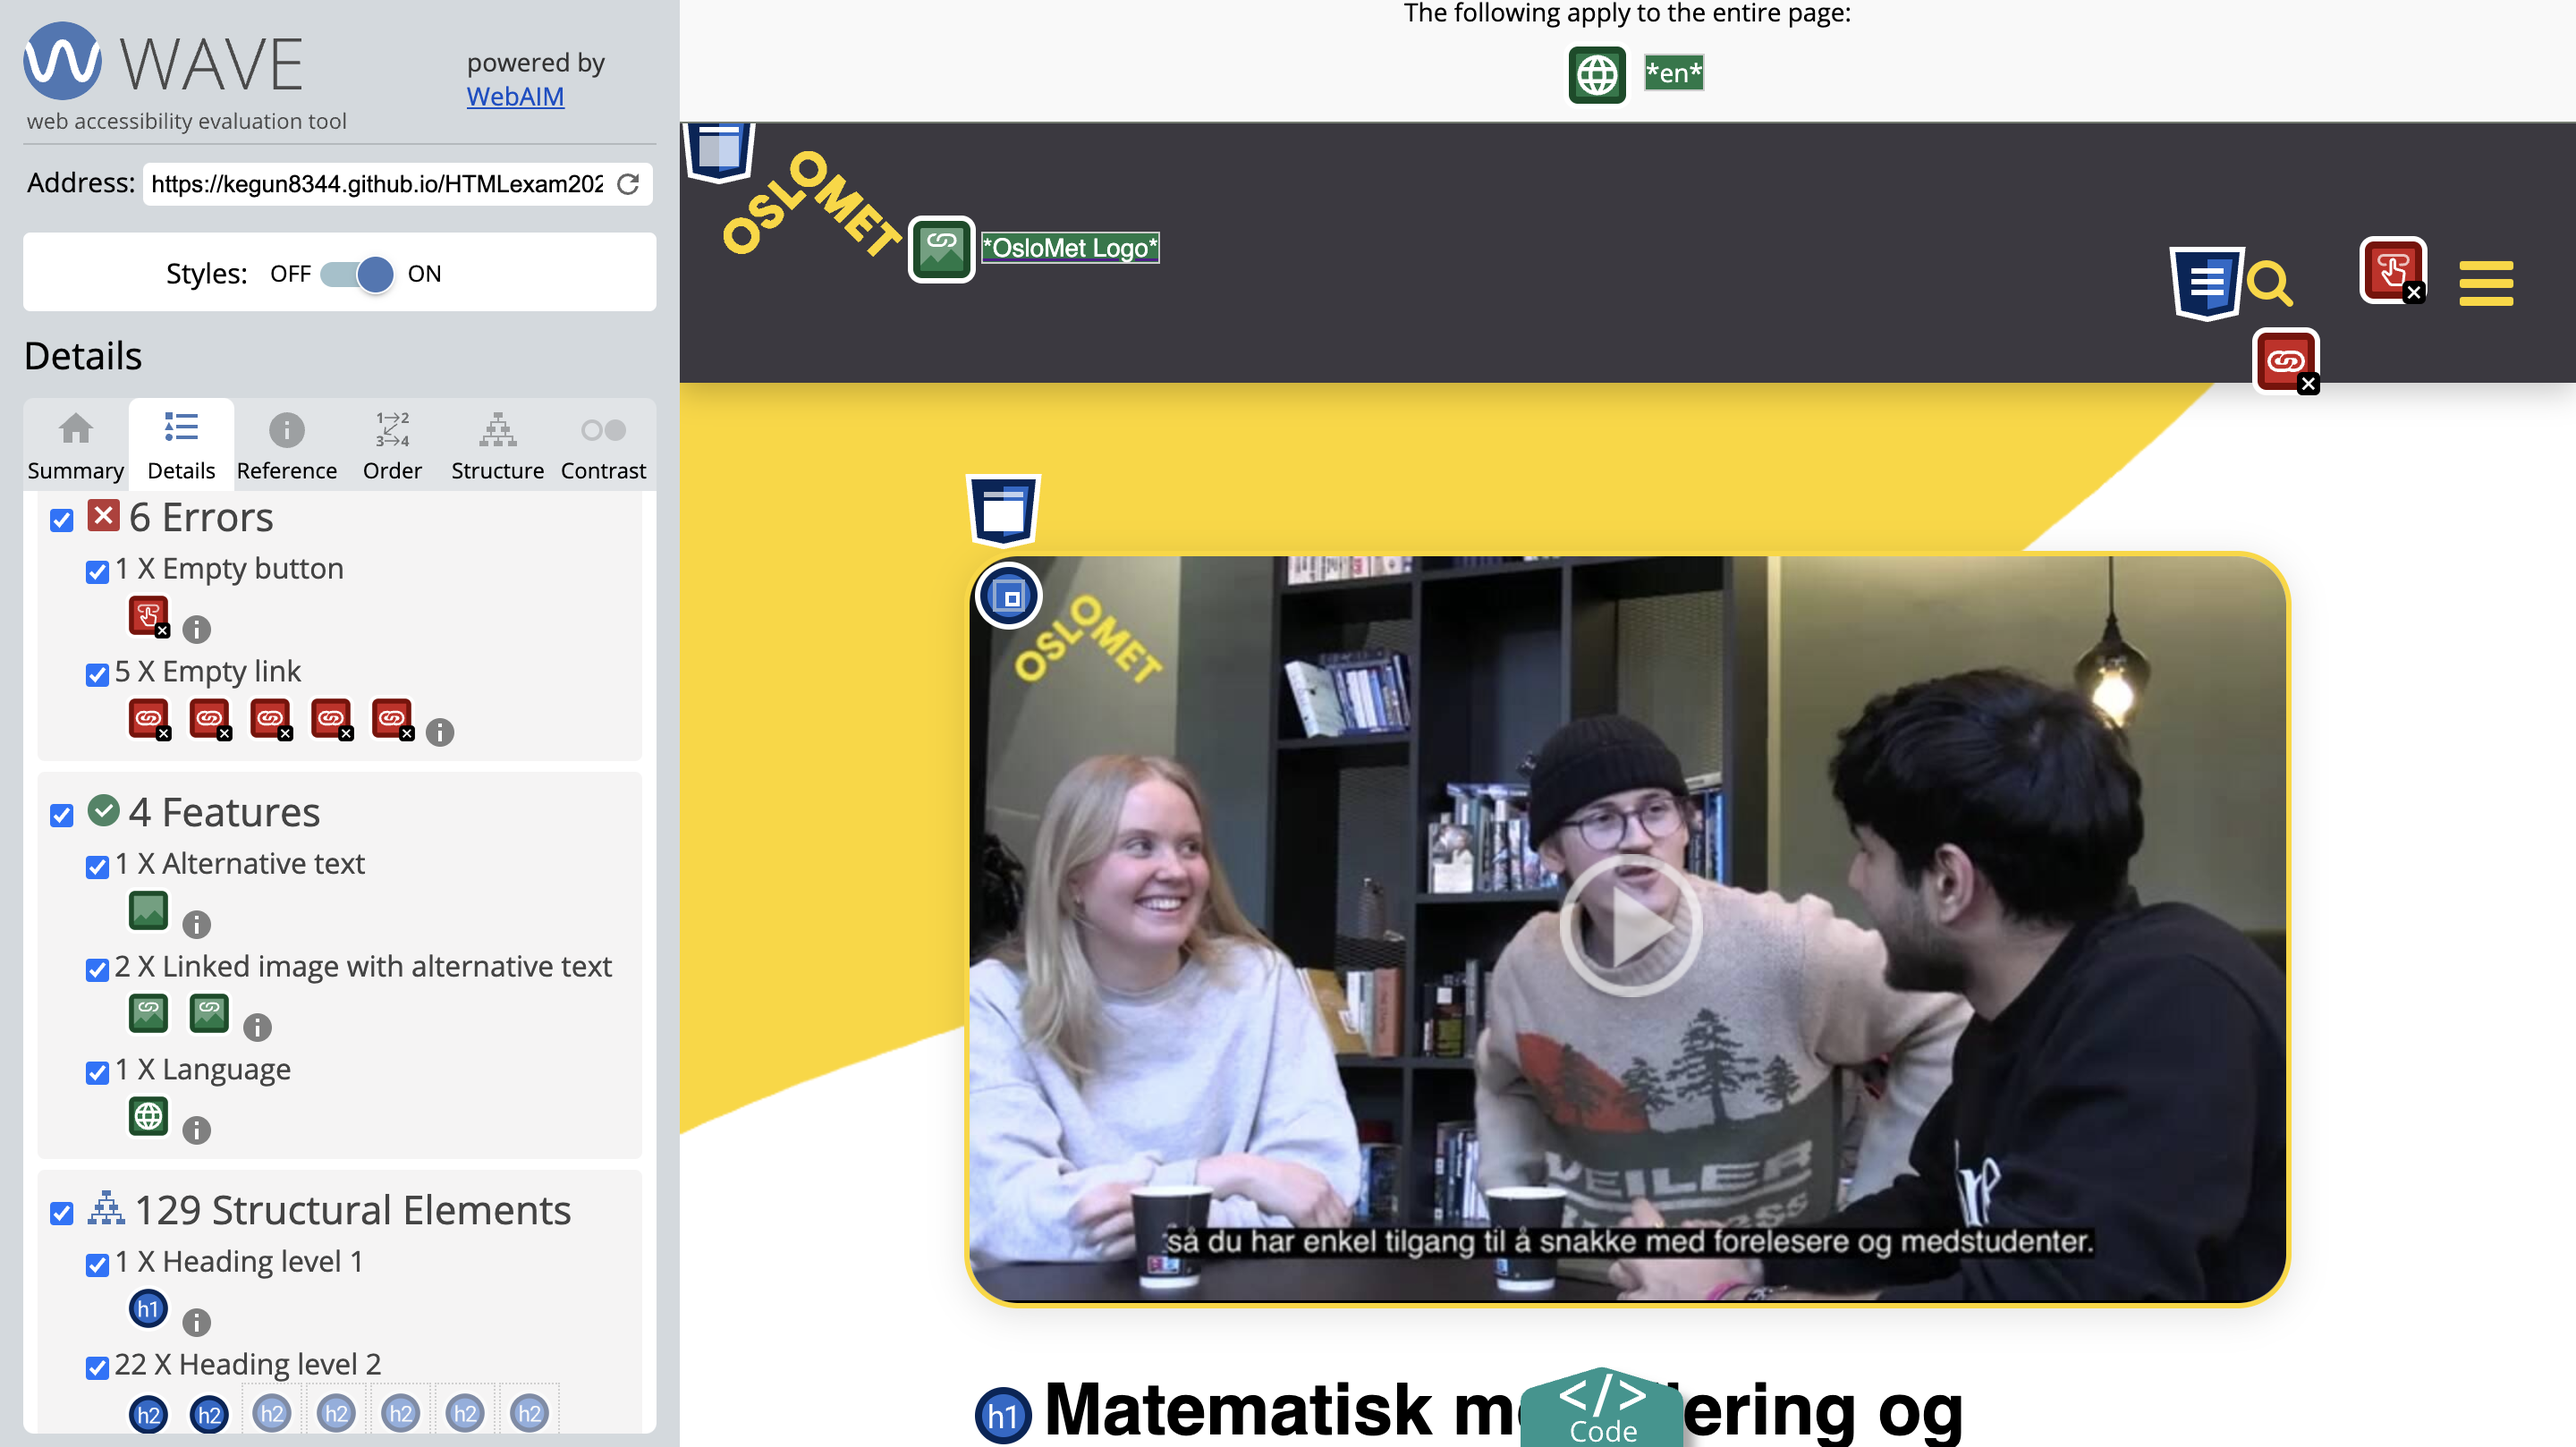
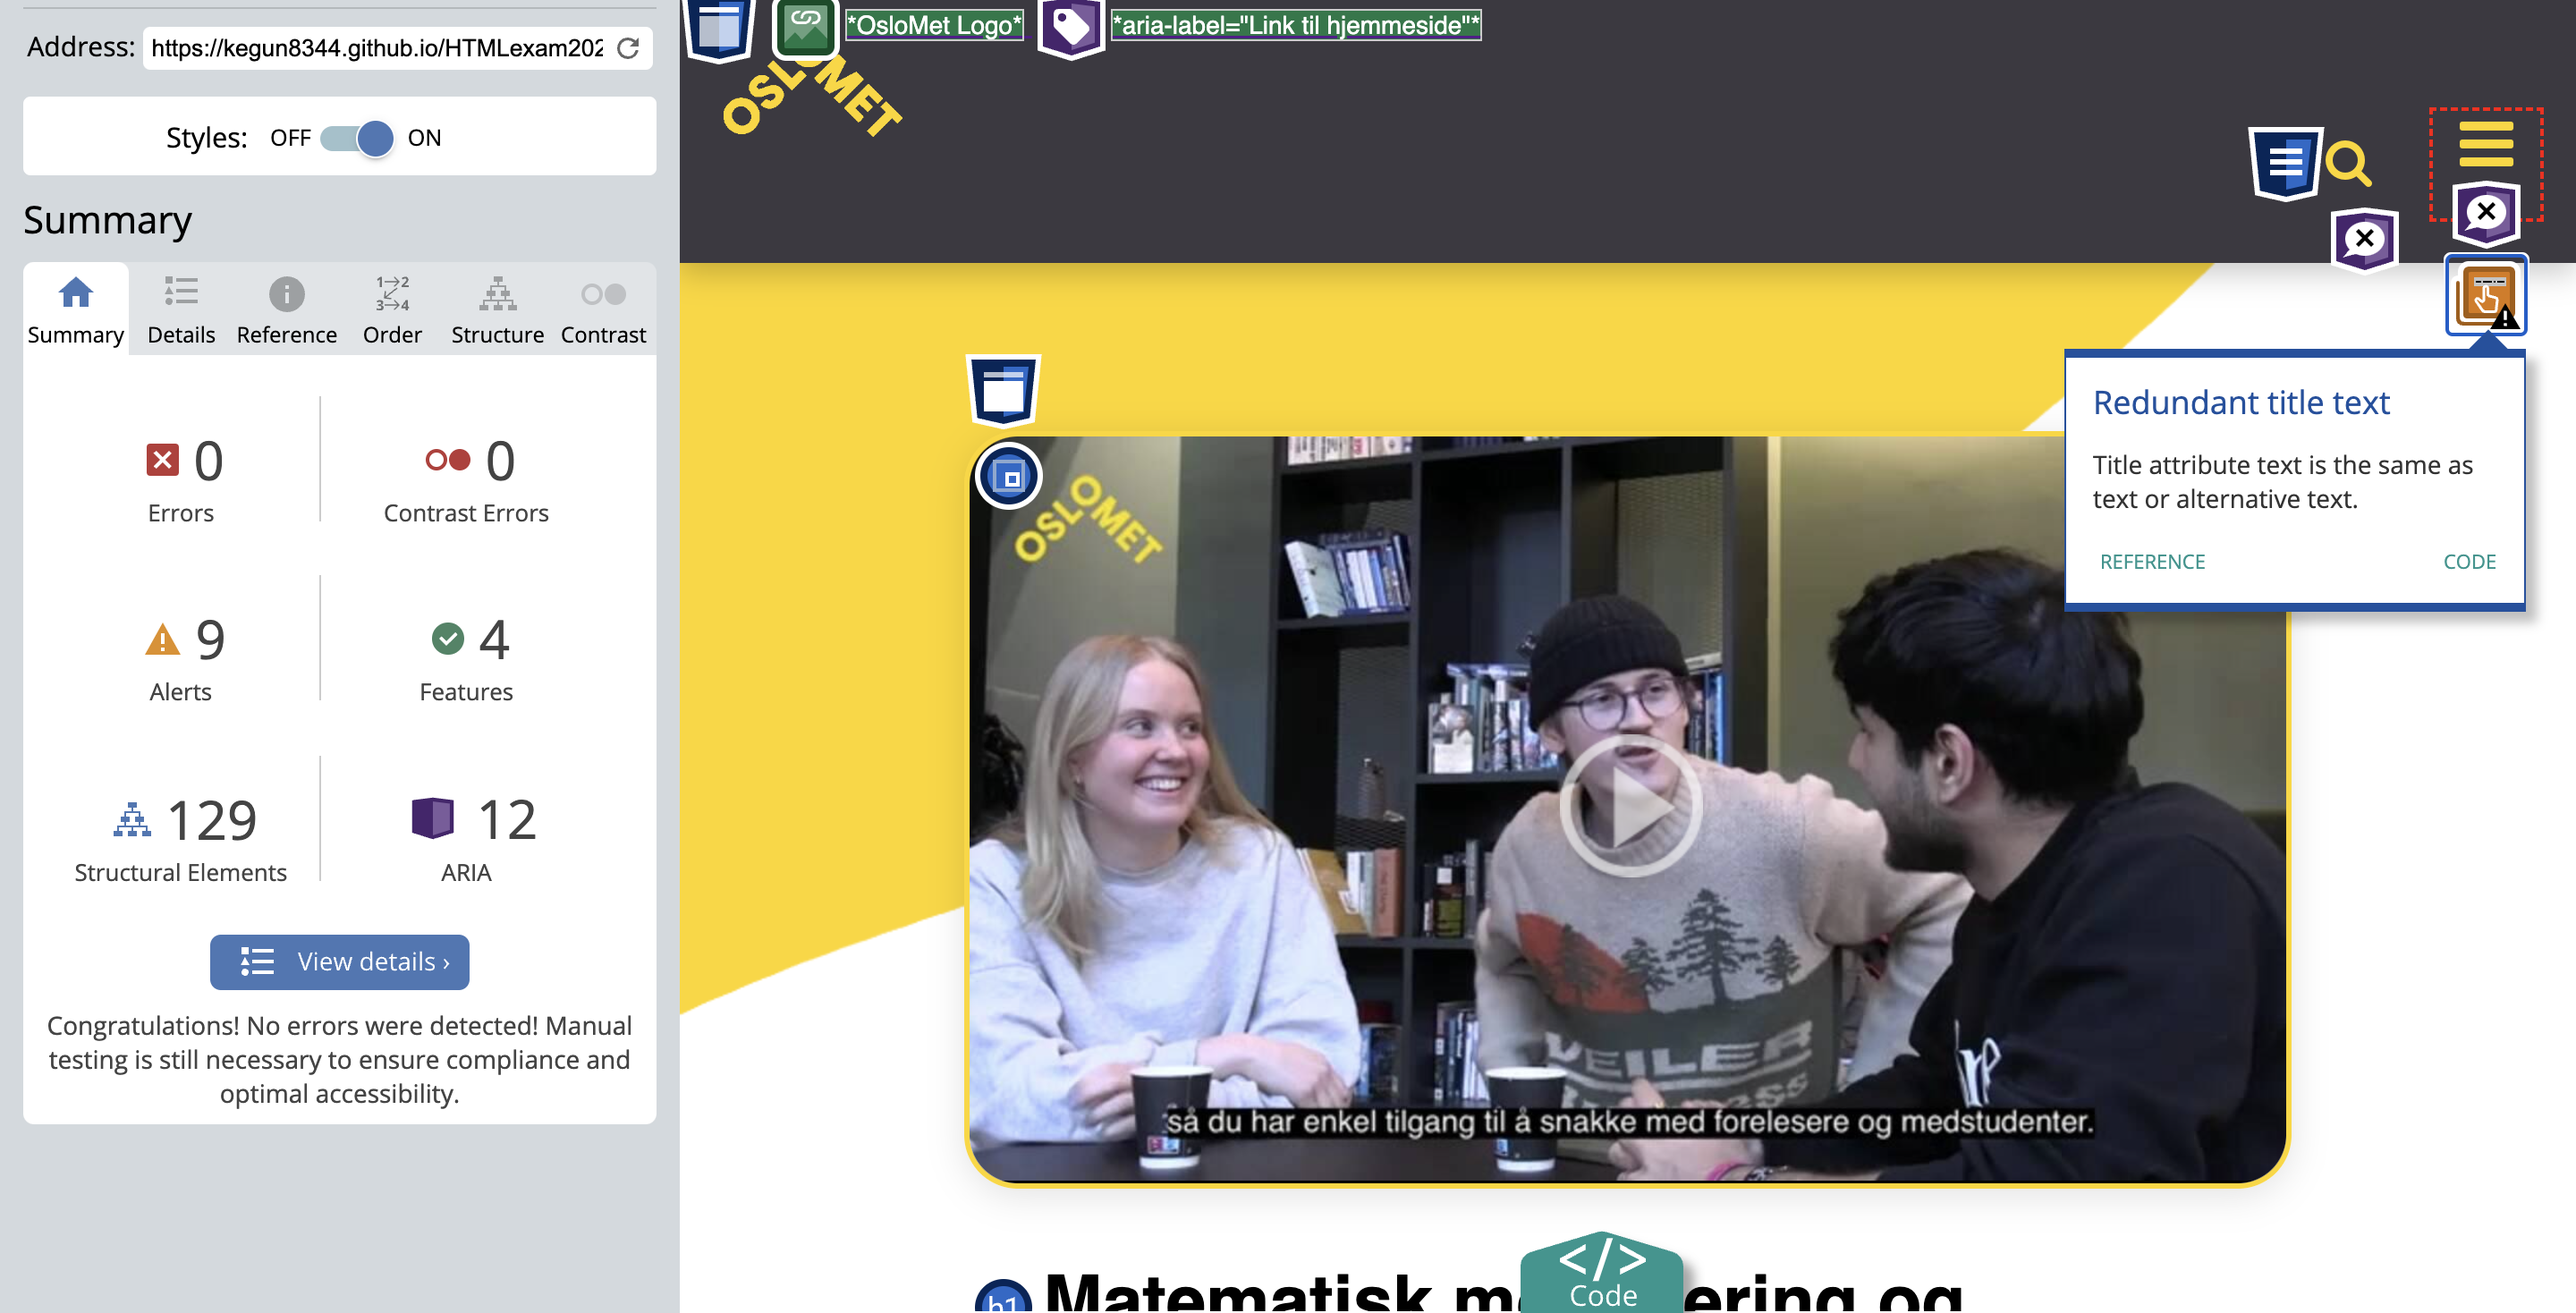
accessibility updated tekst picture

diff --git a/other-pages/accessibility.html b/other-pages/accessibility.html
@@ -91,11 +91,10 @@
                 styrke strukturen.
                 En annen feil gjelder med funksjonaliteten ved touchscreen. Siden meny åpnet via hover, vil den åpenbart
                 ikke kunne åpnes. Vi fikset dette ved å gjøre at den åpner ved å trykkes på, og lukkes ved å trykkes på
-                igjen, eller ved å trykke utenfor menyen. Etter å ha fikset all dette nevnt, så gjenstår det en feilmelding om
-                at ikonene vi brukt ikke hadde noen alt tekst. Det var også en feilmelding med linkene
-                ikke har tekst som
-                normalt gjør det vanskelig å vite hva linken er om. Heldigvis var disse linkene hvor vi har ikoner
-                istedenfor link.</p>
+                igjen, eller ved å trykke utenfor menyen. Etter å ha fikset all dette nevnt, så gjenstår det 9 varseler. De handler om
+                om denne aria-hidden som gjør at dersom ikonene ikke laster opp og ikke er synlig gir det en tekst isteden. 
+                Itilegg brukes det tooltip. Siden teksten er den samme i begge kan det virke unødvendig, men vi har ingen tekst ved siden
+                av ikonene. </p>
         </article>
     </main>
 
@@ -169,10 +168,10 @@
                     <a href="https://www.facebook.com/oslomet/" class="fa fa-facebook" aria-hidden="true" title="Facebook"><span class="sr-only">Facebook</span></a>
                 </li>
                 <li>
-                    <a href="https://no.linkedin.com/school/oslomet/" class="fa fa-linkedin" title="LinkedIn"><span class="sr-only">LinkedIn</span></a>
+                    <a href="https://no.linkedin.com/school/oslomet/" class="fa fa-linkedin" aria-hidden="true" title="LinkedIn"><span class="sr-only">LinkedIn</span></a>
                 </li>
                 <li>
-                    <a href="https://www.instagram.com/oslomet/?hl=nb" class="fa fa-instagram" title="Instagram"><span class="sr-only">Instagram</span></a>
+                    <a href="https://www.instagram.com/oslomet/?hl=nb" class="fa fa-instagram"  aria-hidden="true"title="Instagram"><span class="sr-only">Instagram</span></a>
                 </li>
             </ul>
         </nav>

diff --git a/other-pages/activity.html b/other-pages/activity.html
@@ -317,10 +317,10 @@
                     <a href="https://www.facebook.com/oslomet/" class="fa fa-facebook" aria-hidden="true" title="Facebook"><span class="sr-only">Facebook</span></a>
                 </li>
                 <li>
-                    <a href="https://no.linkedin.com/school/oslomet/" class="fa fa-linkedin" title="LinkedIn"><span class="sr-only">LinkedIn</span></a>
+                    <a href="https://no.linkedin.com/school/oslomet/" class="fa fa-linkedin" aria-hidden="true" title="LinkedIn"><span class="sr-only">LinkedIn</span></a>
                 </li>
                 <li>
-                    <a href="https://www.instagram.com/oslomet/?hl=nb" class="fa fa-instagram" title="Instagram"><span class="sr-only">Instagram</span></a>
+                    <a href="https://www.instagram.com/oslomet/?hl=nb" class="fa fa-instagram" aria-hidden="true" title="Instagram"><span class="sr-only">Instagram</span></a>
                 </li>
             </ul>
         </nav>

diff --git a/other-pages/github.html b/other-pages/github.html
@@ -155,10 +155,10 @@
                     <a href="https://www.facebook.com/oslomet/" class="fa fa-facebook" aria-hidden="true" title="Facebook"><span class="sr-only">Facebook</span></a>
                 </li>
                 <li>
-                    <a href="https://no.linkedin.com/school/oslomet/" class="fa fa-linkedin" title="LinkedIn"><span class="sr-only">LinkedIn</span></a>
+                    <a href="https://no.linkedin.com/school/oslomet/" class="fa fa-linkedin" aria-hidden="true" title="LinkedIn"><span class="sr-only">LinkedIn</span></a>
                 </li>
                 <li>
-                    <a href="https://www.instagram.com/oslomet/?hl=nb" class="fa fa-instagram" title="Instagram"><span class="sr-only">Instagram</span></a>
+                    <a href="https://www.instagram.com/oslomet/?hl=nb" class="fa fa-instagram" aria-hidden="true" title="Instagram"><span class="sr-only">Instagram</span></a>
                 </li>
             </ul>
         </nav>

diff --git a/index.html b/index.html
@@ -1260,10 +1260,10 @@
                     <a href="https://www.facebook.com/oslomet/" class="fa fa-facebook" aria-hidden="true" title="Facebook"><span class="sr-only">Facebook</span></a>
                 </li>
                 <li>
-                    <a href="https://no.linkedin.com/school/oslomet/" class="fa fa-linkedin" title="LinkedIn"><span class="sr-only">LinkedIn</span></a>
+                    <a href="https://no.linkedin.com/school/oslomet/" class="fa fa-linkedin"  aria-hidden="true"title="LinkedIn"><span class="sr-only">LinkedIn</span></a>
                 </li>
                 <li>
-                    <a href="https://www.instagram.com/oslomet/?hl=nb" class="fa fa-instagram" title="Instagram"><span class="sr-only">Instagram</span></a>
+                    <a href="https://www.instagram.com/oslomet/?hl=nb" class="fa fa-instagram"  aria-hidden="true"title="Instagram"><span class="sr-only">Instagram</span></a>
                 </li>
         </nav>
     </footer>

diff --git a/stylesheet/style.css b/stylesheet/style.css
@@ -622,12 +622,10 @@ footer #icon {
 .mediabox p {
     letter-spacing: 0.06rem;
     font-size: 0.9rem;
-    color: rgba(255, 255, 255, 0.6);
 }
 
 .mediabox a {
     text-decoration: none;
-    color: rgba(255, 255, 255, 0.8);
 }
 
 /* Styling Social Icons */
